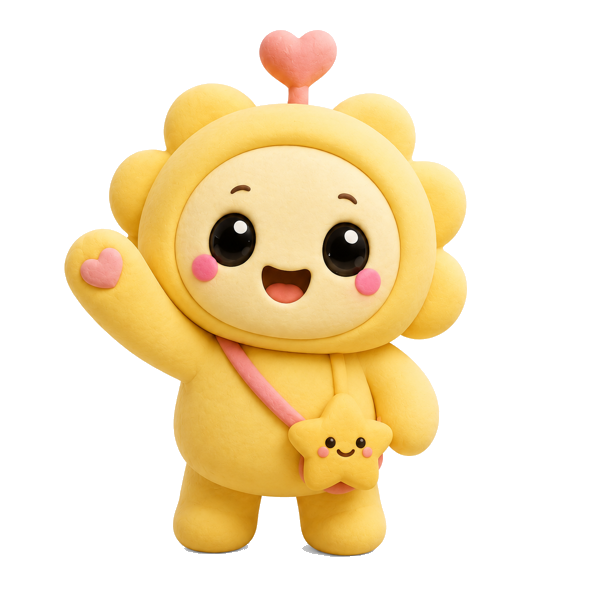
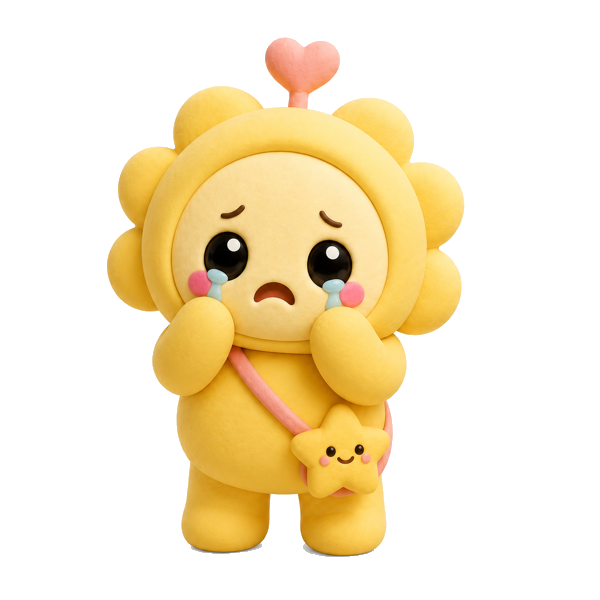
Joy trapped (sad) default + rescued (happy) on mission clear

Changed region(s): [[0.09, 0.03, 0.78, 0.93], [0.51, 0.9, 0.57, 0.93], [0.33, 0.12, 0.36, 0.15]]

diff --git a/monggle_event.html b/monggle_event.html
@@ -670,11 +670,11 @@ function postSunny(){ return LANG()==='ko' ? [
   {c:'mungi',t:'Chapter 2 · <span class="v">Bring Back Joy</span>',x:`Moong: "Two friends to go! Joy forgot how to feel happy — let's share a great big smile."`,btn:'Start Chapter 2 ▶'}
 ]; }
 function postCosmo(){ return LANG()==='ko' ? [
-  {c:'joy',t:'조이가 다시 행복해요!',x:`"헤헤! 네 미소가 얼마나 좋은 기분인지 떠올려줬어!" — 조이`},
+  {c:'joy_free',t:'조이가 다시 행복해요!',x:`"헤헤! 네 미소가 얼마나 좋은 기분인지 떠올려줬어!" — 조이`},
   {c:'grumble',t:'그럼블이 약해져요',x:`"그만해! 내 우울함이 사라지고 있어!" 그럼블이 점점 약해져요…`},
   {c:'mungi',t:'챕터 3 · <span class="v">감정의 색깔</span>',x:`뭉이: "마지막이야! 아이리스가 마음의 색을 잃었어. 색을 찾아 무지개를 다시 만들어 그럼블을 물리치자!"`,btn:'챕터 3 시작 ▶'}
 ] : [
-  {c:'joy',t:'Joy is happy again!',x:`"Hehe! Your smile reminded me how good it feels!" — Joy`},
+  {c:'joy_free',t:'Joy is happy again!',x:`"Hehe! Your smile reminded me how good it feels!" — Joy`},
   {c:'grumble',t:'The Grumble weakens',x:`"Stop it! My gloom is slipping away!" The Grumble is getting weaker…`},
   {c:'mungi',t:'Chapter 3 · <span class="v">Colors of Feelings</span>',x:`Moong: "Last one! Iris lost the colors of her heart. Find them, rebuild the rainbow, and we'll blast the Grumble!"`,btn:'Start Chapter 3 ▶'}
 ]; }
@@ -727,7 +727,7 @@ function markStamp(i){
   done[i]=true; cleared++;
   const m=document.querySelector(`.mission[data-m="${i}"]`);
   m.classList.add('cleared'); m.querySelector('.m-go').textContent=(LANG()==='ko'?'완료 ✓':'DONE ✓');
-  const faces=['hugo_free','joy','iris_free'];
+  const faces=['hugo_free','joy_free','iris_free'];
   const st=document.querySelector(`.stamp[data-s="${i}"]`);
   st.innerHTML=`<img src="assets/characters/${faces[i]}.png" alt="">`; st.classList.add('done');
   document.getElementById('cnt').textContent=cleared;
@@ -740,7 +740,7 @@ function freeFriend(i){
   if(!f) return;
   f.classList.remove('trapped'); f.classList.add('freed');
   const s=f.querySelector('.fstat'); if(s) s.textContent=(window.MK_LANG==='ko'?'마음 회복! 💛':'Heart back! 💛');
-  const _free={0:'hugo_free',2:'iris_free'}[i]; if(_free){ const im=f.querySelector('img.charimg'); if(im) im.src='assets/characters/'+_free+'.png'; }
+  const _free={0:'hugo_free',1:'joy_free',2:'iris_free'}[i]; if(_free){ const im=f.querySelector('img.charimg'); if(im) im.src='assets/characters/'+_free+'.png'; }
 }
 function finishAll(){
   const r=document.getElementById('reward'); r.classList.add('show');

diff --git a/index.html b/index.html
@@ -352,7 +352,7 @@
     <p class="sub reveal d2">Tap below to start your adventure with Moong.</p>
     <div class="go-cast reveal d2">
       <img src="assets/characters/mungi.png"><img src="assets/characters/hugo_free.png">
-      <img src="assets/characters/joy.png"><img src="assets/characters/iris.png">
+      <img src="assets/characters/joy_free.png"><img src="assets/characters/iris_free.png">
       <img src="assets/characters/grumble_happy.png">
     </div>
     <div class="reveal d3" style="margin-top:18px;">